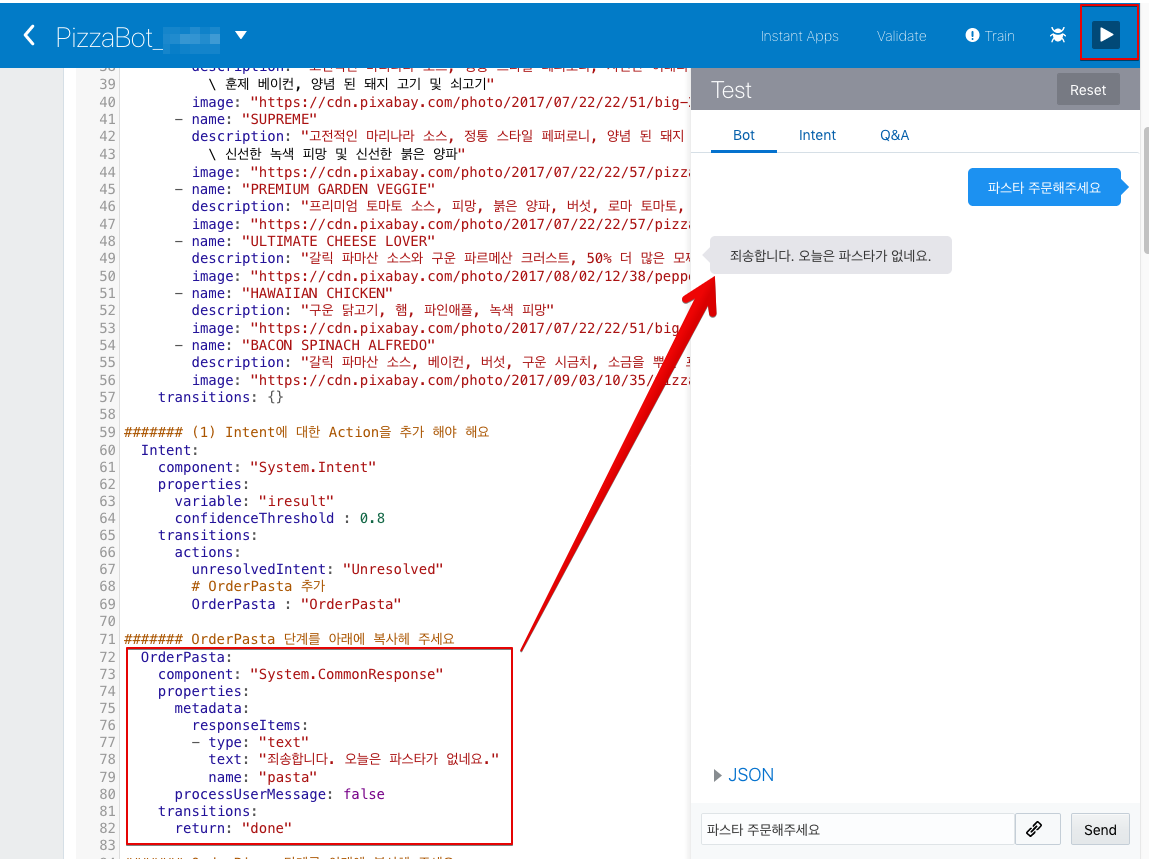
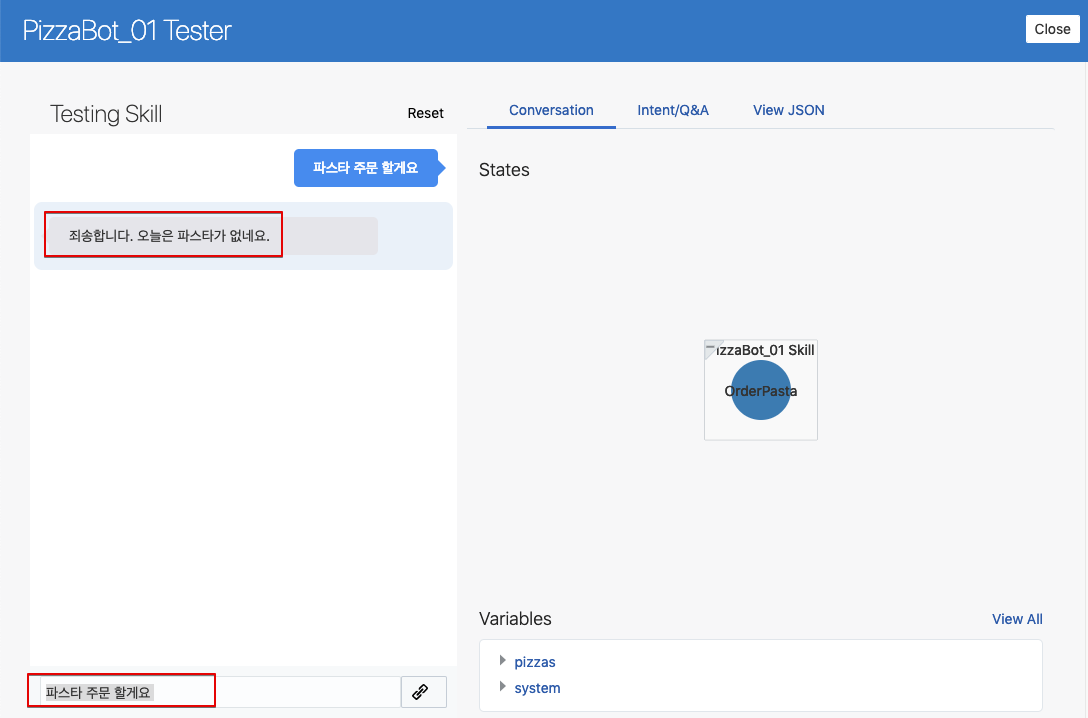
Test UI 이미지 변경

diff --git a/_site/chatbot/2019/챗봇-Hands-on-Lab_3/index.html b/_site/chatbot/2019/챗봇-Hands-on-Lab_3/index.html
@@ -147,10 +147,11 @@
     <span class="na">component</span><span class="pi">:</span> <span class="s2">"</span><span class="s">System.Intent"</span>
     <span class="na">properties</span><span class="pi">:</span>
       <span class="na">variable</span><span class="pi">:</span> <span class="s2">"</span><span class="s">iresult"</span>
-      <span class="na">confidenceThreshold </span><span class="pi">:</span> <span class="s">0.8</span>
+<span class="c1">#      confidenceThreshold : 0.8</span>
     <span class="na">transitions</span><span class="pi">:</span>
       <span class="na">actions</span><span class="pi">:</span>
         <span class="na">unresolvedIntent</span><span class="pi">:</span> <span class="s2">"</span><span class="s">Unresolved"</span>
+        <span class="na">CancelPizza </span><span class="pi">:</span> <span class="s2">"</span><span class="s">CancelPizza"</span>
         <span class="c1"># OrderPasta 추가</span>
         <span class="c1"># OrderPizza 추가</span>
         <span class="na">OrderPasta </span><span class="pi">:</span> <span class="s2">"</span><span class="s">OrderPasta"</span>
@@ -160,10 +161,11 @@
     <span class="na">component</span><span class="pi">:</span> <span class="s2">"</span><span class="s">System.Intent"</span>
     <span class="na">properties</span><span class="pi">:</span>
       <span class="na">variable</span><span class="pi">:</span> <span class="s2">"</span><span class="s">iresult"</span>
-      <span class="na">confidenceThreshold </span><span class="pi">:</span> <span class="s">0.8</span>
+<span class="c1">#      confidenceThreshold : 0.8</span>
     <span class="na">transitions</span><span class="pi">:</span>
       <span class="na">actions</span><span class="pi">:</span>
         <span class="na">unresolvedIntent</span><span class="pi">:</span> <span class="s2">"</span><span class="s">Unresolved"</span>
+        <span class="na">CancelPizza </span><span class="pi">:</span> <span class="s2">"</span><span class="s">CancelPizza"</span>
         <span class="c1"># OrderPasta 추가 </span>
         <span class="na">OrderPasta </span><span class="pi">:</span> <span class="s2">"</span><span class="s">OrderPasta"</span> <span class="c1"># 여기 한줄만 추가된 것임</span>
         <span class="c1"># OrderPizza 추가</span>
@@ -193,7 +195,10 @@
 
 <p><img src="/assets/images/chatbot_lecture/pizzalab/07_OrderPasta_Flow.png" alt="" /></p>
 
-<p>오류가 없다면 Test UI를 열어서 해당 flow가 잘 동작하는지 확인합니다.</p>
+<p>오류가 없다면 Test UI를 열어서 해당 flow가 잘 동작하는지 확인합니다.
+왼쪽 하단의 <strong>▶</strong> 버튼을 클릭하여 Test UI를 엽니다.</p>
+
+<p><img src="/assets/images/chatbot_lecture/pizzalab/08_OrderPasta_Test_1.png" alt="" /></p>
 
 <p><img src="/assets/images/chatbot_lecture/pizzalab/08_OrderPasta_Test.png" alt="" /></p>
 
@@ -241,7 +246,7 @@
     <span class="na">component</span><span class="pi">:</span> <span class="s2">"</span><span class="s">System.Intent"</span>
     <span class="na">properties</span><span class="pi">:</span>
       <span class="na">variable</span><span class="pi">:</span> <span class="s2">"</span><span class="s">iresult"</span>
-      <span class="na">confidenceThreshold </span><span class="pi">:</span> <span class="s">0.8</span>
+<span class="c1">#      confidenceThreshold : 0.8</span>
     <span class="na">transitions</span><span class="pi">:</span>
       <span class="na">actions</span><span class="pi">:</span>
         <span class="na">unresolvedIntent</span><span class="pi">:</span> <span class="s2">"</span><span class="s">Unresolved"</span>
@@ -255,7 +260,7 @@
     <span class="na">component</span><span class="pi">:</span> <span class="s2">"</span><span class="s">System.Intent"</span>
     <span class="na">properties</span><span class="pi">:</span>
       <span class="na">variable</span><span class="pi">:</span> <span class="s2">"</span><span class="s">iresult"</span>
-      <span class="na">confidenceThreshold </span><span class="pi">:</span> <span class="s">0.8</span>
+<span class="c1">#      confidenceThreshold : 0.8</span>
     <span class="na">transitions</span><span class="pi">:</span>
       <span class="na">actions</span><span class="pi">:</span>
         <span class="na">unresolvedIntent</span><span class="pi">:</span> <span class="s2">"</span><span class="s">Unresolved"</span>
@@ -265,13 +270,12 @@
         <span class="na">OrderPizza </span><span class="pi">:</span> <span class="s2">"</span><span class="s">OrderPizza"</span>  <span class="c1"># 여기 한줄만 변경됨     </span>
 </code></pre></div></div>
 
-<p>불리어지는 <strong>OrderPizza</strong> 단계를 <strong>”####### OrderPizza 단계를 아래에 복사헤 주세요”</strong> 주석 아래에 있는 코드 부분을 전체 변경해 줍니다 (수정전 –&gt; 수정후) 
+<p>불리어지는 <strong>OrderPizza</strong> 단계를 <strong>”####### OrderPizza 단계를 아래에 복사헤 주세요”</strong> 주석 아래에 있는 코드 부분을 <strong>전체 변경</strong>해 줍니다 (수정전 –&gt; 수정후) 
 <strong>OrderPizza</strong> 단계는 여러개의 피자를 Card layout으로 이미지와 함께 보여주는 로직 입니다.</p>
 
 <h2 id="수정-전-3">수정 전</h2>
 
 <div class="language-yaml highlighter-rouge"><div class="highlight"><pre class="highlight"><code><span class="c1">####### OrderPizza 단계를 아래에 복사헤 주세요</span>
-
   <span class="na">OrderPizza</span><span class="pi">:</span>
     <span class="na">component</span><span class="pi">:</span> <span class="s2">"</span><span class="s">System.CommonResponse"</span>
     <span class="na">properties</span><span class="pi">:</span>
@@ -287,7 +291,6 @@
 <h2 id="수정-후-3">수정 후</h2>
 
 <div class="language-yaml highlighter-rouge"><div class="highlight"><pre class="highlight"><code><span class="c1">####### OrderPizza 단계를 아래에 복사헤 주세요</span>
-
   <span class="na">OrderPizza</span><span class="pi">:</span>
     <span class="na">component</span><span class="pi">:</span> <span class="s2">"</span><span class="s">System.CommonResponse"</span>
     <span class="na">properties</span><span class="pi">:</span>
@@ -399,7 +402,6 @@
 <p><strong>”####### AskLocation 단계를 아래에 복사헤 주세요”</strong> 주석 아래에 다음을 추가해 주세요.</p>
 
 <div class="language-yaml highlighter-rouge"><div class="highlight"><pre class="highlight"><code><span class="c1">####### AskLocation 단계를 아래에 복사헤 주세요</span>
-
   <span class="na">AskLocation</span><span class="pi">:</span>
     <span class="na">component</span><span class="pi">:</span> <span class="s2">"</span><span class="s">System.CommonResponse"</span>
     <span class="na">properties</span><span class="pi">:</span>
@@ -425,7 +427,6 @@
 <p><strong>”####### Confirmation 단계를 아래에 복사헤 주세요”</strong> 주석 아래에 다음을 추가해 주세요.</p>
 
 <div class="language-yaml highlighter-rouge"><div class="highlight"><pre class="highlight"><code><span class="c1">####### Confirmation 단계를 아래에 복사헤 주세요</span>
-
   <span class="na">Confirmation</span><span class="pi">:</span>
     <span class="na">component</span><span class="pi">:</span> <span class="s2">"</span><span class="s">System.CommonResponse"</span>
     <span class="na">properties</span><span class="pi">:</span>
@@ -453,7 +454,13 @@
   <li><a href="https://github.com/mee-nam-lee/chatbot_lecture/blob/master/labfiles/PizzaBot/OrderPizzaFlow.md">완성된 OrderPizza flow 참고</a></li>
 </ul>
 
-<p>오류가 없다면 Test UI를 열어서 추가된 로직이 잘 동작하는지 확인 합니다.</p>
+<p>오류가 없다면 Test UI를 열어서 추가된 로직이 잘 동작하는지 확인 합니다.
+왼쪽 하단의 <strong>▶</strong> 버튼을 클릭하여 Test UI를 엽니다.</p>
+
+<blockquote>
+  <p>Test UI는 위에서 테스트 했던 것처럼 Flow화면 우측이 아닌 새로운 페이지로 나타날 것입니다.
+아래 이미지의 테스트 순서에 따라 테스트 하면 됩니다.</p>
+</blockquote>
 
 <p><img src="/assets/images/chatbot_lecture/pizzalab/09_OrderPizza_Test1.png" alt="" /></p>
 
